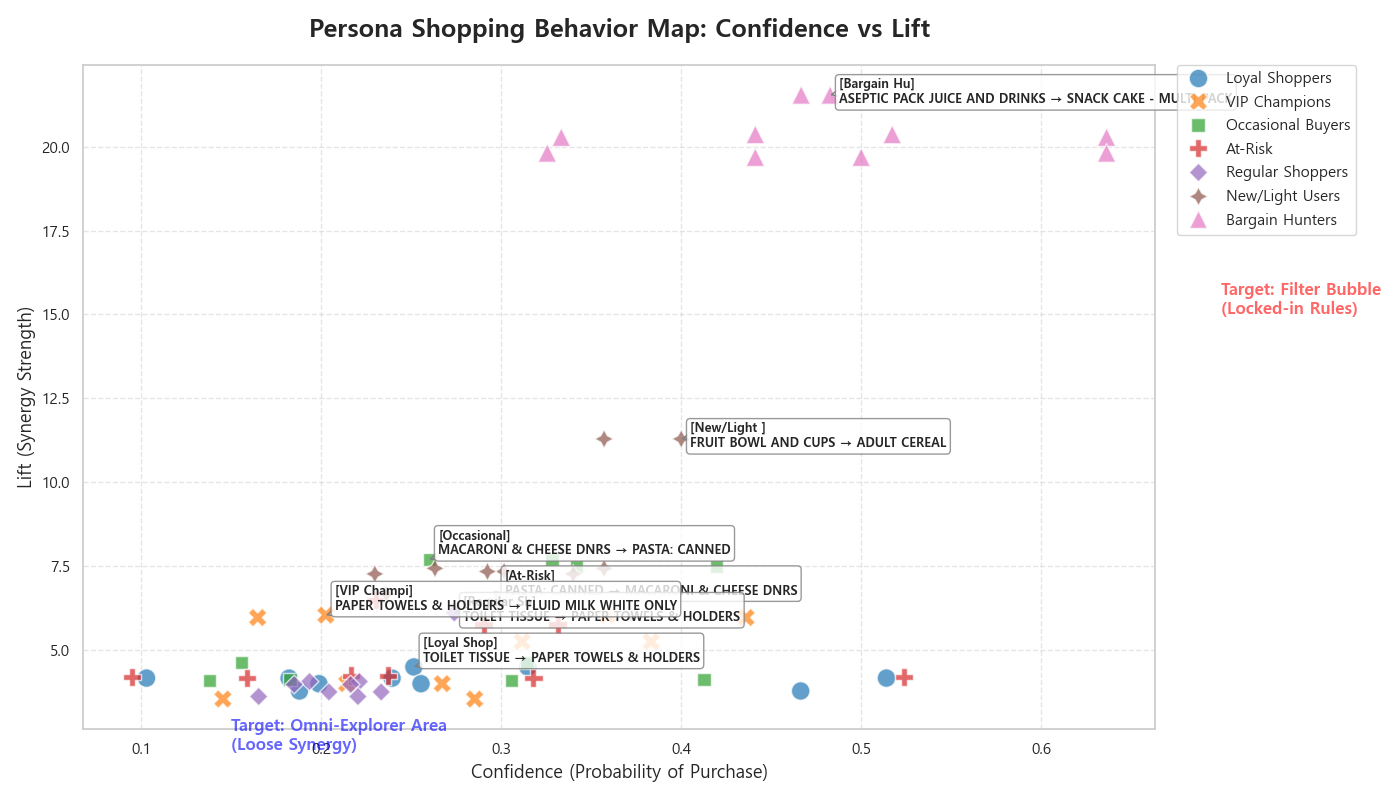
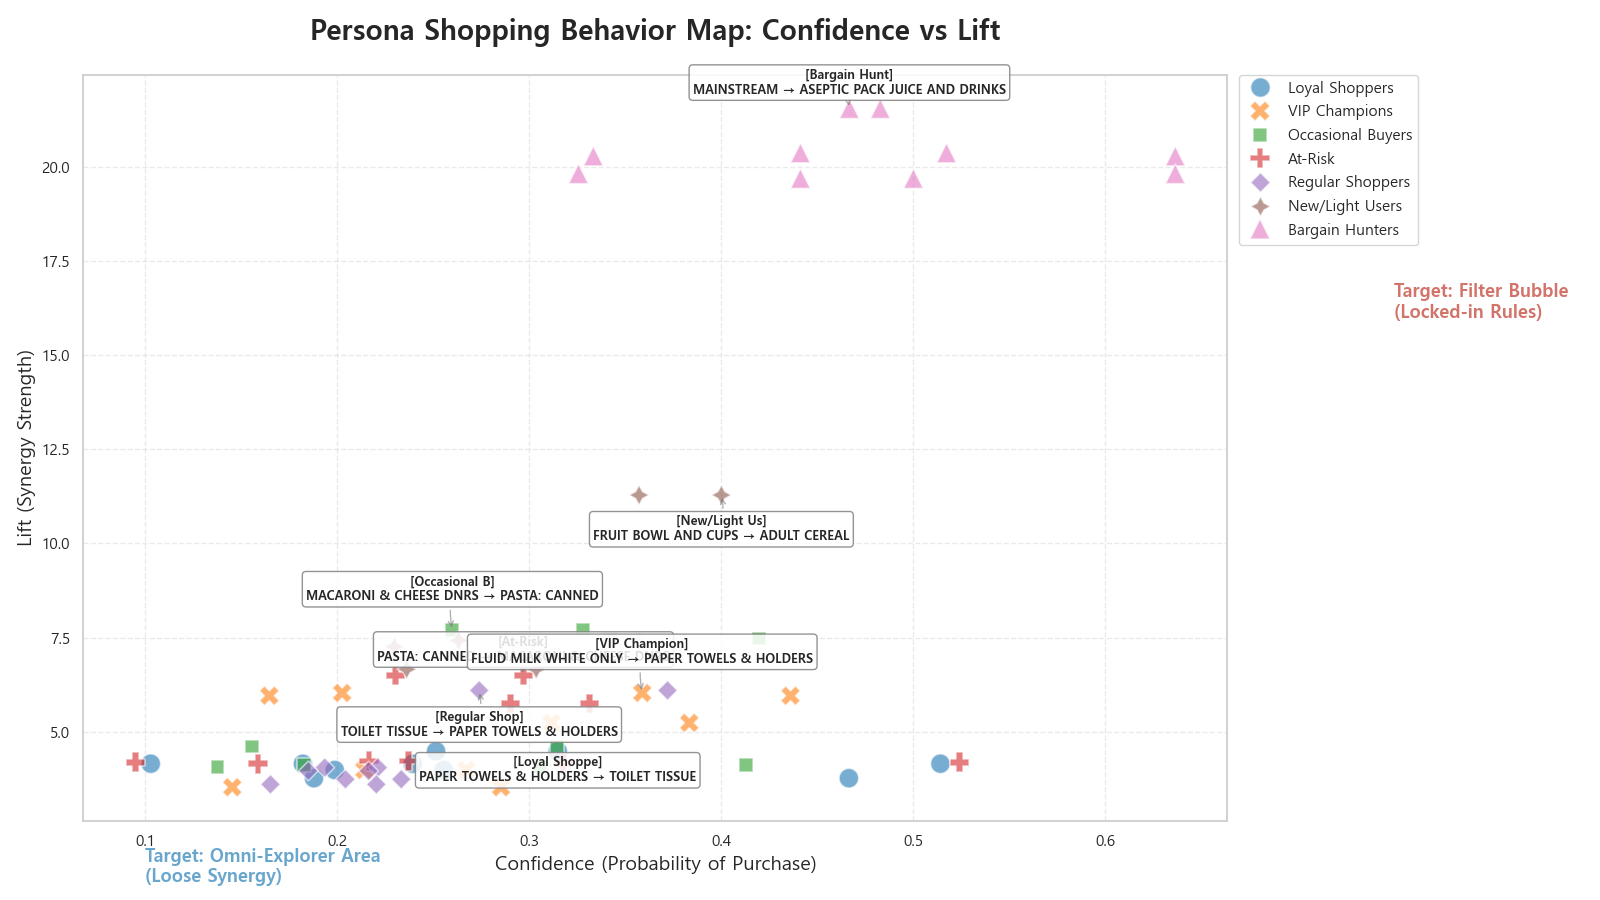
Fix MBA Slide 1 (Retry): Implement proximity-aware 4-tier label staggering

diff --git a/refine_mba_visuals.py b/refine_mba_visuals.py
@@ -60,39 +60,44 @@ for persona in target_personas:
 plot_df = pd.DataFrame(metrics)
 
 # 3. Plot Scatter: Confidence (X) vs Lift (Y)
-plt.figure(figsize=(14, 8))
+plt.figure(figsize=(16, 9))
 sns.scatterplot(data=plot_df, x='confidence', y='lift', hue='persona', 
-                style='persona', s=180, alpha=0.7, palette='tab10')
+                style='persona', s=200, alpha=0.6, palette='tab10')
 
-# Annotation with overlap prevention (Simple heuristic: alternating offsets)
-from matplotlib.patches import Rectangle
+# Advanced Annotation: Sort by X-axis (Confidence) and stagger vertically across 4 tiers
+top_points = []
+for persona in plot_df['persona'].unique():
+    p_data = plot_df[plot_df['persona'] == persona].sort_values('lift', ascending=False).iloc[0]
+    top_points.append(p_data)
 
-persona_list = sorted(plot_df['persona'].unique())
-for i, persona in enumerate(persona_list):
-    top_rule = plot_df[plot_df['persona'] == persona].sort_values('lift', ascending=False).iloc[0]
-    
-    # Alternate anchor position to reduce overlap
-    y_off = 0.15 if i % 2 == 0 else -0.25
-    x_off = 0.005
+# Sort points by Confidence to manage horizontal density
+top_points_sorted = sorted(top_points, key=lambda x: x['confidence'])
+
+# 4-Tier Staggering Logic
+y_offsets = [0.8, -1.2, 0.4, -0.8] # Alternating vertical positions
+
+for i, pt in enumerate(top_points_sorted):
+    y_off = y_offsets[i % len(y_offsets)]
+    x_off = 0 # No horizontal shift needed if staggered vertically
     
     plt.annotate(
-        f"[{persona[:10]}]\n{top_rule['antecedents']} \u2192 {top_rule['consequents']}",
-        xy=(top_rule['confidence'], top_rule['lift']),
-        xytext=(top_rule['confidence'] + x_off, top_rule['lift'] + y_off),
-        fontsize=9, weight='bold',
-        bbox=dict(boxstyle="round,pad=0.3", fc="white", ec="gray", alpha=0.8),
-        arrowprops=dict(arrowstyle="->", connectionstyle="arc3,rad=0.1", color='gray')
+        f"[{pt['persona'][:12]}]\n{pt['antecedents']} \u2192 {pt['consequents']}",
+        xy=(pt['confidence'], pt['lift']),
+        xytext=(pt['confidence'], pt['lift'] + y_off),
+        fontsize=9, weight='bold', ha='center',
+        bbox=dict(boxstyle="round,pad=0.3", fc="white", ec="gray", alpha=0.85),
+        arrowprops=dict(arrowstyle="->", connectionstyle="arc3,rad=0.1", color='gray', alpha=0.6)
     )
 
-# Region Annotations (Conceptual)
-plt.text(0.7, 15, "Target: Filter Bubble\n(Locked-in Rules)", fontsize=12, color='red', weight='bold', alpha=0.6)
-plt.text(0.15, 2, "Target: Omni-Explorer Area\n(Loose Synergy)", fontsize=12, color='blue', weight='bold', alpha=0.6)
+# Region Annotations (Conceptual) - Adjusted positions for better visibility
+plt.text(0.75, 16, "Target: Filter Bubble\n(Locked-in Rules)", fontsize=13, color='#c0392b', weight='bold', alpha=0.7)
+plt.text(0.1, 1, "Target: Omni-Explorer Area\n(Loose Synergy)", fontsize=13, color='#2980b9', weight='bold', alpha=0.7)
 
-plt.title('Persona Shopping Behavior Map: Confidence vs Lift', fontsize=18, fontweight='bold', pad=20)
-plt.xlabel('Confidence (Probability of Purchase)', fontsize=13)
-plt.ylabel('Lift (Synergy Strength)', fontsize=13)
-plt.grid(True, linestyle='--', alpha=0.5)
-plt.legend(bbox_to_anchor=(1.02, 1), loc='upper left', borderaxespad=0.)
+plt.title('Persona Shopping Behavior Map: Confidence vs Lift', fontsize=20, fontweight='bold', pad=25)
+plt.xlabel('Confidence (Probability of Purchase)', fontsize=14)
+plt.ylabel('Lift (Synergy Strength)', fontsize=14)
+plt.grid(True, linestyle='--', alpha=0.4)
+plt.legend(bbox_to_anchor=(1.01, 1), loc='upper left', borderaxespad=0., fontsize=11)
 plt.tight_layout()
 plt.savefig('final_reports/mba/plots/mba_rule_scatter.png')
 print("Saved scatter plot to final_reports/mba/plots/mba_rule_scatter.png")
